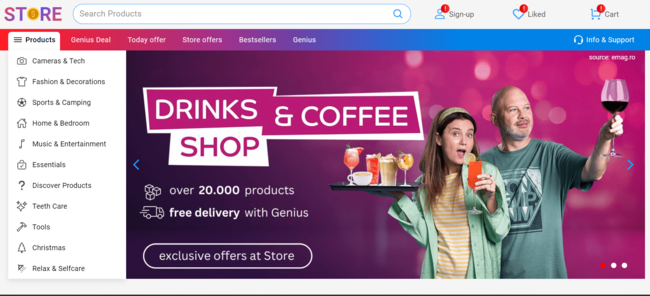
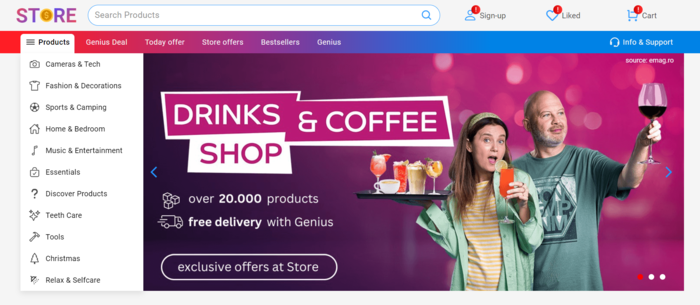
proj general improvements

diff --git a/src/Containers/ProjectsR/ProjectsR.js b/src/Containers/ProjectsR/ProjectsR.js
@@ -49,10 +49,10 @@ const ProjectsR = () => {
   bannerImg: { image: stars, speed: -30 },
   image: <img src={store} alt="music_app" />,
   firstIcon: <IoMdSettings className="last_world_icon"/>,
-  firstBold: "Seamless Experience",
+  firstBold: "Seamless Experience:",
   firstText: " This cherished project stands as one of my favorites, offering seamless user exploration, interaction, and management capabilities.",
   secondIcon: <BiSolidUser className="last_image_icon"/>,
-  secondBold: "User-Centric Design",
+  secondBold: "User-Centric Design:",
   secondText: " With a keen emphasis on user needs, my platform ensures a seamless experience from start to finish, prioritizing UI and UX.",
   thirdIcon: <BsLightningChargeFill className="last_tablet_icon"/>,
   thirdBold: "High-Speed Functionality:",
@@ -60,7 +60,7 @@ const ProjectsR = () => {
   forthIcon: <IoFlask  className="last_lightning_icon"/>,
   forthBold: "Personalized Discovery:",
   forthText: "  Explore curated listings and tailored recommendations for a customized shopping journey.",
-  firstLink: "https://rafatabian.github.io/shop/"
+  firstLink: "https://rafatabian.github.io/store"
 },
 {
   zoomIcon: <BsFillChatSquareTextFill className='music_icon' />,
@@ -79,7 +79,7 @@ const ProjectsR = () => {
   forthIcon: <FaHistory className="middle_history_icon"/>,
   forthBold: "Conversation History Tracking:",
   forthText: " Easily refer back to past conversations for continuous assistance.",
-  firstLink: "https://asistent-45fb86b712b9.herokuapp.com/"
+  firstLink: "https://rafatabian.github.io/AI-assistant"
 }]
 
 //logic for optimisation
@@ -115,7 +115,7 @@ useEffect(() => {
 
           <div className= "third_rotated_title_container"> 
             <p className="rotated_first_word third_rotated_moving_words"><span>Path</span>way Opens</p>  
-            <p className="rotated_second_word third_rotated_moving_words">Pathway O<span>pen</span>s</p>    
+            <p className="rotated_second_word third_rotated_moving_words">Pathway <span>Open</span>s</p>    
             <p className="rotated_third_word third_rotated_moving_words">Path<span>way</span> Opens</p>
           </div>
 

diff --git a/src/Components/ProjChild/ProjChild.css b/src/Components/ProjChild/ProjChild.css
@@ -5,7 +5,7 @@
     align-items: center;
     justify-content: flex-start;
     flex-direction: column;
-    padding: 2rem 4rem;
+    padding: 0 4rem;
     position:relative;
 }
 .first_section_paralax{
@@ -26,7 +26,12 @@
   letter-spacing: 0px;
   text-align: center;
 }
-
+.music_app_parallax{
+   width: 45%;
+}
+.music_app_parallax img{
+    width: 100%;
+}
 .music_banner{
     width: 100%;
     height: 100vh;
@@ -56,15 +61,17 @@
 .music_first_info_p, .music_second_info_p,
  .music_third_info_p, .music_forth_info_p{
     width: 600px;
-    height:90px;
-    padding: 10px 20px;
+    padding: 15px 20px 15px 25px;
     background-color: rgb(42, 42, 42);
-    margin: 10px 0;
+    margin: 8px 0;
     border-radius: 10px;
     display: flex;
     align-items: center;
     justify-content: center;
     flex-direction: row;
+}
+.music_first_info_p{
+    margin-top: 16px !important;
 }
 .music_first_info_p p, .music_second_info_p p,
 .music_third_info_p p, .music_forth_info_p p{
@@ -74,7 +81,7 @@
 .music_second_info_p svg,
 .music_third_info_p svg,
 .music_forth_info_p svg{
-    margin-right: 20px;
+    margin-right: 13px;
     width: 35px;
     height: 35px;
 }
@@ -109,14 +116,15 @@
 .music_first_info_p p, .music_second_info_p p,
 .music_third_info_p p, .music_forth_info_p p{
     font-family: var(--roboto);
-    color: rgb(220, 220, 220);
-    font-size: 18px;
-    font-weight: 400;
-    line-height: 1.4;
+    color:white;
+    font-size: 16px;
+    letter-spacing: 0.3px !important;
 }
 .music_first_info_p b, .music_second_info_p b,
 .music_third_info_p b, .music_forth_info_p b{
   color: aliceblue;
+  font-size: 15.5px;
+  letter-spacing: 0.5px;
 }
 
 .button_space{
@@ -140,6 +148,7 @@
     z-index: 1;
     transition: 0.3s ease-out;
     background-color: rgb(0, 0, 0);
+    margin-bottom: 100px;
 }
 .music_app_button::before{
     content: '';

diff --git a/src/Containers/ProjectsR/ProjectsR.css b/src/Containers/ProjectsR/ProjectsR.css
@@ -33,7 +33,7 @@
     font-family: var(--roboto);
     color: var(--white);
     font-size: 90px;
-    letter-spacing: -5px;
+    letter-spacing: -1px;
     font-weight: 600;
 }
 .rotated_moving_words,
@@ -42,15 +42,15 @@
     min-width: 1000px;
 }
 .rotated_first_word{
-    animation: rotated_first_word 7s linear infinite;
+    animation: rotated_first_word 10s linear infinite;
 } 
 .rotated_second_word{
-    animation: rotated_first_word 7s linear infinite;
-    animation-delay: 2.4s;
+    animation: rotated_first_word 10s linear infinite;
+    animation-delay: 3.25s;
 }
 .rotated_third_word{
-    animation: rotated_first_word 7s linear infinite;
-    animation-delay: 4.7s;
+    animation: rotated_first_word 10s linear infinite;
+    animation-delay: 6.5s;
 }
 @keyframes rotated_first_word {
     0% {
@@ -69,7 +69,7 @@
     display: flex;
     align-items: center;
     justify-content: center;
-    margin: 40px 0 ;
+    margin: -50px 0 70px 0;
 }
 .contact_buttons_container a{
     position: relative;
@@ -110,7 +110,7 @@
 
 .second_rotated_title_container, 
 .third_rotated_title_container{
-    margin-bottom:100px;
+    margin-bottom:0px;
     width: 100vw;
     height: 100px;
     display: flex;
@@ -132,7 +132,7 @@
     font-family: var(--roboto);
     color: var(--white);
     font-size: 90px;
-    letter-spacing: -5px;
+    letter-spacing: -1px;
     font-weight: 600;
 }
 

diff --git a/src/Components/ProjChild/ProjChild.js b/src/Components/ProjChild/ProjChild.js
@@ -1,6 +1,7 @@
 import "./ProjChild.css";
 
 import { Parallax, ParallaxBanner } from "react-scroll-parallax";
+import { Link } from "react-router-dom";
 
 
 const ProjChild = (props) => {
@@ -16,7 +17,10 @@ const ProjChild = (props) => {
 
       <ParallaxBanner className="music_banner" layers={[props.data.bannerImg]}>
         <Parallax className="music_app_parallax">
-        {props.data.image}
+          <Link to={props.data.firstLink}>
+            {props.data.image}
+          </Link>
+        
         </Parallax>
       </ParallaxBanner>
 

diff --git a/src/Containers/Projects/Projects.js b/src/Containers/Projects/Projects.js
@@ -20,6 +20,7 @@ const Projects = () => {
 
 // TO DO 
 // finish proj section by adding "store"
+// improve proj section overall
 // improve about section
 
   //logic for scrolling down and activate transitions
